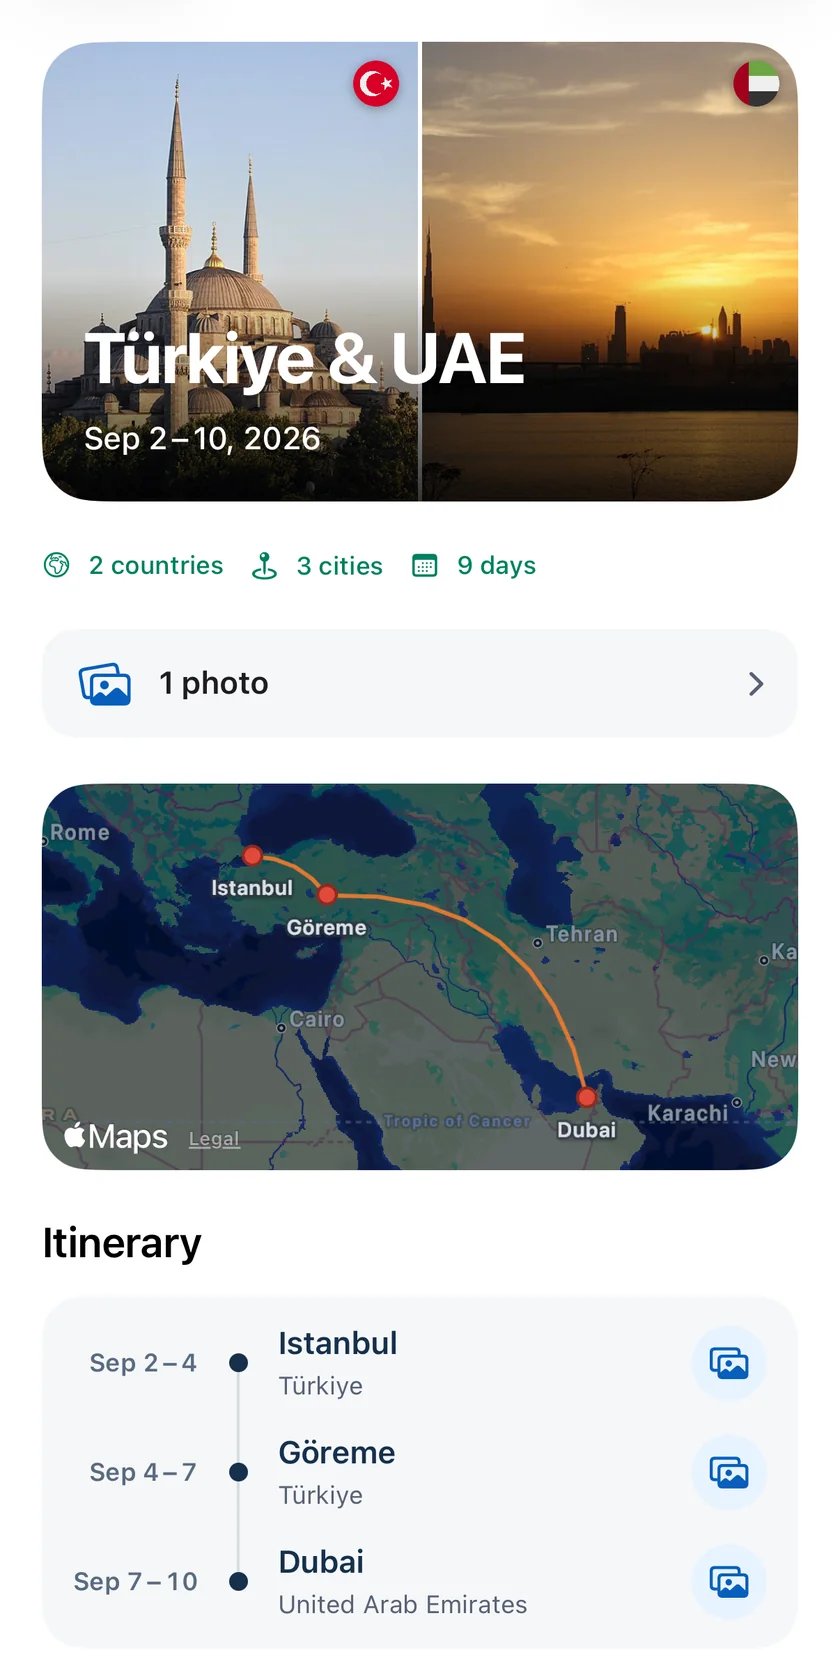
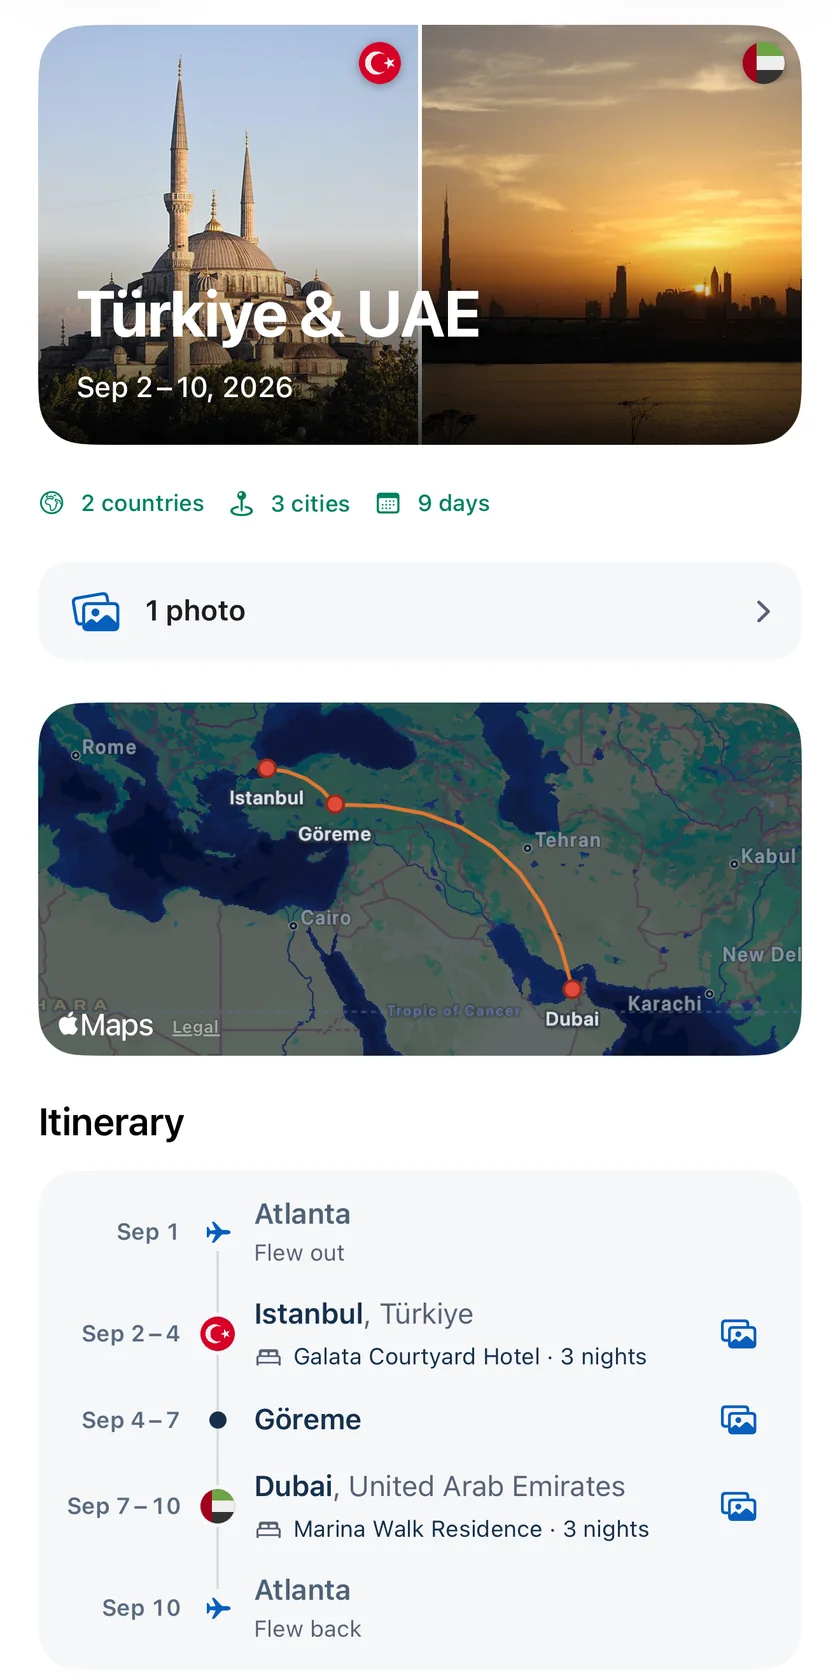
Website: the journey picture and the sharing words as the app is now
The story's journey screen shows the itinerary with flags and its flights and hotels. Sharing is the itinerary picture; the journey card is gone from the app.

diff --git a/index.html b/index.html
@@ -87,7 +87,7 @@
             </div>
           </div>
           <div class="step" data-step="1">
-            <div class="mstage" data-step="1" aria-hidden="true"><span class="tint c-teal on"></span><span class="dots"></span><div class="mphone iphone"><i class="b1"></i><i class="b2"></i><i class="b3"></i><i class="b4"></i><div class="bezel"><div class="screen"><div class="reel reel-sheet" style="--reel-to:-11.94%"><div class="reel-view"><img class="reel-img" src="assets/reel/journey.webp?v=1" alt="" width="840" height="1680" decoding="async"></div><img class="reel-head" src="assets/reel/journey-head.png?v=1" alt="" width="840" height="276"></div><span class="island"></span></div></div></div></div>
+            <div class="mstage" data-step="1" aria-hidden="true"><span class="tint c-teal on"></span><span class="dots"></span><div class="mphone iphone"><i class="b1"></i><i class="b2"></i><i class="b3"></i><i class="b4"></i><div class="bezel"><div class="screen"><div class="reel reel-sheet" style="--reel-to:-11.94%"><div class="reel-view"><img class="reel-img" src="assets/reel/journey.webp?v=2" alt="" width="840" height="1680" decoding="async"></div><img class="reel-head" src="assets/reel/journey-head.png?v=1" alt="" width="840" height="276"></div><span class="island"></span></div></div></div></div>
             <div class="inner">
               <div class="num c-teal">2</div>
               <h3>Every journey, <span class="serif t-teal">in order</span>.</h3>
@@ -111,7 +111,7 @@
             <div class="iphone"><i class="b1"></i><i class="b2"></i><i class="b3"></i><i class="b4"></i>
               <div class="bezel"><div class="screen">
                 <div class="reel reel-list sv on" data-step="0" style="--reel-to:-60.653%"><div class="reel-view"><img class="reel-img" src="assets/reel/journeys-b.webp?v=1" alt="" width="840" height="3841" decoding="async"></div><img class="reel-head" src="assets/reel/journeys-head.png?v=2" alt="" width="840" height="315"><span class="reel-fade"></span><span class="reel-glass"></span><img class="reel-tab" src="assets/reel/tabbar.png?v=1" alt="" width="631" height="181"></div>
-                <div class="reel reel-sheet sv" data-step="1" style="--reel-to:-11.94%"><div class="reel-view"><img class="reel-img" src="assets/reel/journey.webp?v=1" alt="" width="840" height="1680" decoding="async"></div><img class="reel-head" src="assets/reel/journey-head.png?v=1" alt="" width="840" height="276"></div>
+                <div class="reel reel-sheet sv" data-step="1" style="--reel-to:-11.94%"><div class="reel-view"><img class="reel-img" src="assets/reel/journey.webp?v=2" alt="" width="840" height="1680" decoding="async"></div><img class="reel-head" src="assets/reel/journey-head.png?v=1" alt="" width="840" height="276"></div>
                 <img class="sv" data-step="2" src="assets/img/atlas.jpg?v=4" alt=""><video class="vid sv" data-step="2" src="assets/video/atlas.mp4?v=2" poster="assets/img/atlas.jpg?v=4" muted loop playsinline preload="none" disablepictureinpicture disableremoteplayback aria-hidden="true"></video>
                 <span class="island"></span>
               </div></div>
@@ -229,10 +229,10 @@
         <div class="copy rv" style="--d:.1s">
           <span class="eyebrow t-coral">Share the trip</span>
           <h2>Send friends <span class="serif t-coral">the whole trip</span>.</h2>
-          <p class="sub muted">Share a journey as a picture, or the full itinerary with every stop and its days. Pick the best photos from any trip and send them in one go, or turn them into an album in Photos.</p>
+          <p class="sub muted">Share a journey as one picture: its map, every stop and its days. Pick the best photos from any trip and send them in one go, or turn them into an album in Photos.</p>
           <ul class="slist">
-            <li><span class="dotc" style="background:var(--orange)"></span><span><b>Journey card</b> with the title, cities and dates you choose</span></li>
-            <li><span class="dotc" style="background:var(--teal)"></span><span><b>Itinerary</b> as a picture and as text <span class="pro">Pro</span></span></li>
+            <li><span class="dotc" style="background:var(--orange)"></span><span><b>Itinerary picture</b> with the title and dates you choose</span></li>
+            <li><span class="dotc" style="background:var(--teal)"></span><span><b>High resolution</b>, and the itinerary as text <span class="pro">Pro</span></span></li>
             <li><span class="dotc" style="background:var(--sky)"></span><span><b>Trip photos</b> to friends, or an album in Photos</span></li>
             <li><span class="dotc" style="background:var(--violet)"></span><span>Notes and photo details <b>stay private</b></span></li>
           </ul>
